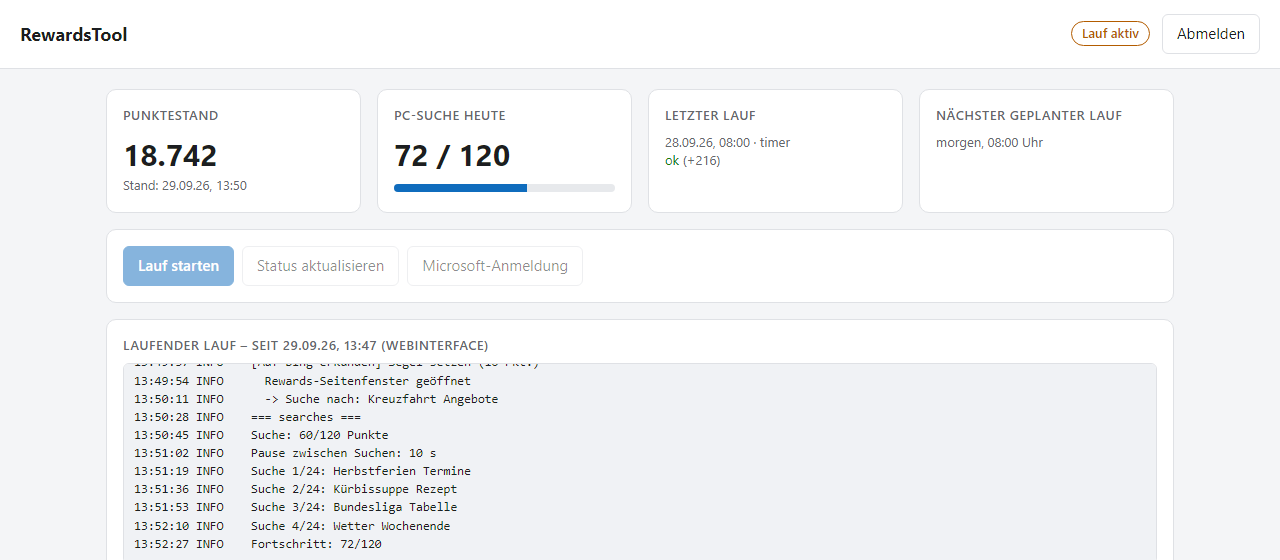
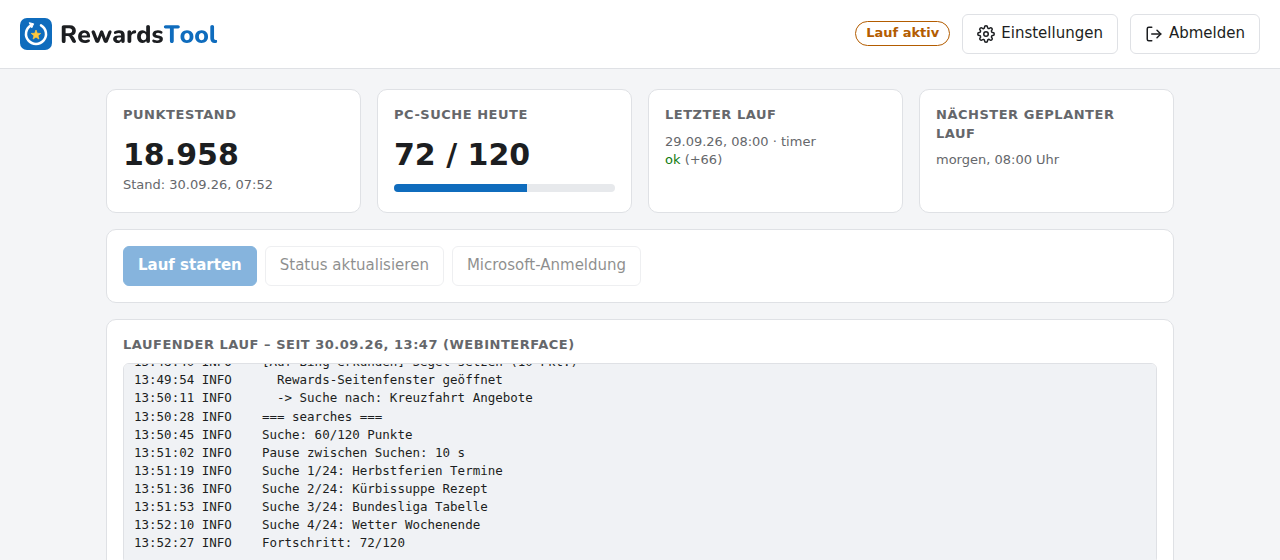
Release 1.1.0 vorbereiten: Screenshots, README, Release-Notes, Workflow
- Screenshots neu (Logo, Einstellungen, Dunkelmodus, Update-Hinweis)
- README: Logo, Funktionen inkl. automatischer Updates, Hinweis auf einmaliges Update von Hand
- docs/releases/v1.1.0.md: Release-Notes
- .github/workflows/release.yml: baut beim Tag-Push das Paket und legt das Release an

Claude-Session: https://claude.ai/code/session_018oni2CTctQfE2EjiHQXRLX

diff --git a/docs/releases/v1.1.0.md b/docs/releases/v1.1.0.md
@@ -1,0 +1,81 @@
+<p align="center"><img src="https://raw.githubusercontent.com/soetbaer/RewardsTool/v1.1.0/web/logo.svg" alt="RewardsTool" width="320"></p>
+
+Das große Webinterface-Update: **automatische Updates**, **Einstellungen**, **Dunkelmodus** und ein neues **Logo**.
+
+> [!IMPORTANT]
+> **Dieses Update musst du einmal von Hand installieren.** Version 1.0.0 hat noch keinen Updater.
+> Erst ab 1.1.0 meldet das Webinterface neue Versionen und installiert sie per Knopfdruck oder ganz automatisch.
+> So geht's: siehe [Update von 1.0.0](#update-von-100) weiter unten.
+
+![Übersicht im Webinterface](https://raw.githubusercontent.com/soetbaer/RewardsTool/v1.1.0/docs/screenshots/uebersicht.png)
+
+## ✨ Neu
+
+### 🔄 Automatische Updates
+Das Webinterface sieht alle 6 Stunden auf GitHub nach einer neuen Version. Gibt es eine, erscheint oben ein Hinweis
+mit **„Was ist neu?“** und **„Jetzt aktualisieren“**. Nach etwa einer Minute ist die neue Version aktiv, die Seite
+lädt sich selbst neu und du bleibst angemeldet.
+
+- **Manuell** (Standard): Du entscheidest, wann installiert wird.
+- **Automatisch**: Updates werden installiert, sobald gerade kein Lauf aktiv ist.
+- Sicher: Die Prüfsumme des Pakets wird kontrolliert. `profile`, `data` und `logs` werden nie angefasst. Deine
+  Werte in der `config.json` bleiben erhalten. Die alte Version wird vorher gesichert und bei einem Fehler
+  wiederhergestellt.
+
+![Update-Hinweis im Webinterface](https://raw.githubusercontent.com/soetbaer/RewardsTool/v1.1.0/docs/screenshots/update.png)
+
+### ⚙ Einstellungen
+Neues Zahnrad oben rechts:
+
+| Einstellung | |
+|---|---|
+| **Darstellung** | Automatisch (wie dein Gerät), Hell oder Dunkel |
+| **Täglicher Lauf** | Uhrzeit direkt im Browser ändern (Windows-Aufgabenplanung bzw. systemd-Timer) |
+| **Updates** | Manuell oder Automatisch |
+| **Passwort ändern** | Neues Passwort fürs Webinterface. Andere Geräte werden abgemeldet. |
+
+<table>
+  <tr>
+    <td width="50%"><img src="https://raw.githubusercontent.com/soetbaer/RewardsTool/v1.1.0/docs/screenshots/einstellungen.png" alt="Einstellungen"><br><sub><b>Einstellungen</b></sub></td>
+    <td width="50%"><img src="https://raw.githubusercontent.com/soetbaer/RewardsTool/v1.1.0/docs/screenshots/dunkel.png" alt="Dunkelmodus"><br><sub><b>Dunkelmodus</b></sub></td>
+  </tr>
+</table>
+
+### 🎨 Neues Logo und Favicon
+Logo im Webinterface statt reinem Schriftzug, passendes Symbol im Browser-Tab und für den Home-Bildschirm
+auf iPhone und iPad.
+
+### 📱 Und außerdem
+- **Footer** mit Version, Link zum GitHub-Projekt und Autor
+- **Handy:** Einstellungen und Abmelden erscheinen im Header als Symbole, damit alles in eine Zeile passt
+- Das Download-Paket heißt jetzt nach der Version: `RewardsTool-1.1.0.zip`
+
+<p align="center"><img src="https://raw.githubusercontent.com/soetbaer/RewardsTool/v1.1.0/docs/screenshots/handy.png" alt="Ansicht auf dem Handy" width="300"></p>
+
+## Update von 1.0.0
+
+**Windows**
+1. `RewardsTool-1.1.0.zip` unten unter **Assets** herunterladen.
+2. In **denselben Ordner** wie bisher entpacken und Dateien überschreiben lassen.
+3. **`Setup.bat`** erneut starten. Deine Microsoft-Anmeldung bleibt erhalten.
+
+**Linux-Server**
+```
+unzip -o RewardsTool-1.1.0.zip
+cd RewardsTool && bash deploy/install.sh 08:00
+```
+`install.sh` richtet dabei zusätzlich die Berechtigung ein, mit der das Webinterface die Uhrzeit des täglichen
+Laufs ändern darf. Dafür bekommt der Dienst-Benutzer per sudoers genau ein Hilfsskript freigegeben, sonst nichts.
+
+> [!NOTE]
+> Hast du die `config.json` angepasst, sichere sie vor dem Entpacken. Beim Update per Hand wird sie überschrieben.
+> Künftige Updates über das Webinterface behalten deine Werte.
+
+## Neuinstallation
+- **Windows:** ZIP herunterladen, entpacken, **`Setup.bat`** doppelklicken. Python wird bei Bedarf mitinstalliert.
+- **Linux-Server:** siehe [README, Variante B](https://github.com/soetbaer/RewardsTool#variante-b-linux-server).
+
+Ausführliche Anleitung: [README](https://github.com/soetbaer/RewardsTool#readme)
+
+> ⚠ Automatisches Punktesammeln verstößt gegen die Microsoft-Rewards-Bedingungen. Microsoft kann Punkte streichen
+> oder das Konto sperren. Nutzung auf eigenes Risiko.

diff --git a/README.md b/README.md
@@ -1,6 +1,11 @@
-# RewardsTool
+<p align="center"><img src="web/logo.svg" alt="RewardsTool" width="360"></p>
 
-Sammelt jeden Tag automatisch deine **Microsoft-Rewards-Punkte**, damit du nicht selbst klicken musst.
+<p align="center">
+  Sammelt jeden Tag automatisch deine <b>Microsoft-Rewards-Punkte</b>, damit du nicht selbst klicken musst.<br>
+  <a href="https://github.com/soetbaer/RewardsTool/releases/latest"><img src="https://img.shields.io/github/v/release/soetbaer/RewardsTool?label=Version&color=0f6cbd" alt="Aktuelle Version"></a>
+  <img src="https://img.shields.io/badge/Windows%20%7C%20Linux-lightgrey" alt="Windows und Linux">
+  <a href="LICENSE"><img src="https://img.shields.io/github/license/soetbaer/RewardsTool?color=lightgrey" alt="Lizenz"></a>
+</p>
 
 Das Tool erledigt für dich:
 
@@ -12,6 +17,16 @@ Das Tool erledigt für dich:
 | „Weiter verdienen“ (weitere Kacheln, Quizze) | unterschiedlich |
 
 **Nicht** abgedeckt: Punkte, die es nur in der **Bing-App auf dem Handy** gibt (z. B. Nachrichten lesen).
+
+### Funktionen
+
+- 🕗 **Läuft täglich von selbst** – zur Uhrzeit deiner Wahl (Windows-Aufgabenplanung oder Linux-Server)
+- 🖥 **Webinterface** – Punktestand, offene Aufgaben, Live-Protokoll und Verlauf; auch auf dem Handy
+- 🔑 **Microsoft-Anmeldung im Browser** – ohne Bildschirm am Server, dein Passwort wird nie gespeichert
+- 🔄 **Automatische Updates** – neue Versionen werden angezeigt und per Knopfdruck installiert, auf Wunsch
+  ganz automatisch *(ab Version 1.1.0)*
+- ⚙ **Einstellungen** – Uhrzeit des täglichen Laufs, Update-Modus, Hell/Dunkel, Passwort ändern
+- 🌙 **Dunkelmodus** – automatisch nach Geräteeinstellung oder fest eingestellt
 
 ---
 
@@ -46,7 +61,14 @@ und lässt dich Läufe starten und dich bei Microsoft anmelden, alles im Browser
     <td width="68%"><img src="docs/screenshots/laufender-lauf.png" alt="Laufender Lauf mit Live-Protokoll"><br><sub><b>Laufender Lauf</b> mit Live-Protokoll</sub></td>
     <td width="32%"><img src="docs/screenshots/handy.png" alt="Ansicht auf dem Handy"><br><sub><b>Auf dem Handy</b></sub></td>
   </tr>
+  <tr>
+    <td width="50%"><img src="docs/screenshots/einstellungen.png" alt="Einstellungen"><br><sub><b>Einstellungen:</b> Uhrzeit, Updates, Darstellung, Passwort</sub></td>
+    <td width="50%"><img src="docs/screenshots/dunkel.png" alt="Dunkelmodus"><br><sub><b>Dunkelmodus</b></sub></td>
+  </tr>
 </table>
+
+![Hinweis auf eine neue Version im Webinterface](docs/screenshots/update.png)
+<sub><b>Updates:</b> Neue Versionen erscheinen oben im Webinterface – „Jetzt aktualisieren“ genügt.</sub>
 
 ![Microsoft-Anmeldung direkt im Webinterface](docs/screenshots/microsoft-anmeldung.png)
 <sub><b>Microsoft-Anmeldung im Webinterface:</b> Live-Bild des Browsers – hineinklicken und tippen wie gewohnt.</sub>
@@ -224,7 +246,11 @@ Ab Version 1.1.0 geht das **im Webinterface**: Gibt es eine neue Version, ersche
 **„Jetzt aktualisieren“** klicken, nach etwa einer Minute ist die neue Version aktiv. Anmeldung, Verlauf und
 deine Werte in der `config.json` bleiben erhalten. Das Tool sucht alle 6 Stunden auf GitHub nach neuen Versionen.
 
-Von Hand (und einmalig beim Wechsel von 1.0.0):
+> [!IMPORTANT]
+> **Kommst du von Version 1.0.0?** Dann musst du das Update auf 1.1.0 **einmal von Hand** installieren (siehe unten) –
+> erst danach hat dein RewardsTool den Updater und alle weiteren Updates laufen über das Webinterface.
+
+Von Hand:
 
 - **Windows:** Neue ZIP in **denselben Ordner** entpacken und Dateien überschreiben lassen. Danach
   `Setup.bat` erneut starten. Deine Anmeldung bleibt erhalten.

diff --git a/TECHNIK.md b/TECHNIK.md
@@ -82,8 +82,9 @@ das Tag mit `VERSION` in `rewards/version.py`. Installiert wird das Release-Asse
 Während der Installation hält das Webinterface die Profilsperre, ein Timer-Lauf wird dann übersprungen.
 Änderungen an `deploy/install.sh` bzw. `windows/setup.ps1` (Dienste, Aufgaben) wirken erst nach erneutem Ausführen.
 
-**Release erstellen:** `VERSION` in `rewards/version.py` erhöhen, `python pack.py` → `dist/RewardsTool-<Version>.zip`,
-Release mit Tag `v<Version>` anlegen und die ZIP als Asset anhängen.
+**Release erstellen:** `VERSION` in `rewards/version.py` erhöhen, Release-Notes nach `docs/releases/v<Version>.md`
+schreiben, committen und das Tag `v<Version>` pushen. Der Workflow `.github/workflows/release.yml` baut dann mit
+`pack.py` das Paket `RewardsTool-<Version>.zip` und legt das Release mit diesen Notes an.
 
 **Sicherheit:** Das Webinterface spricht unverschlüsseltes HTTP. Nur im eigenen Heimnetz verwenden und
 **keine Portfreigabe im Router** einrichten – bei der Microsoft-Anmeldung laufen die Eingaben über diese Verbindung.
